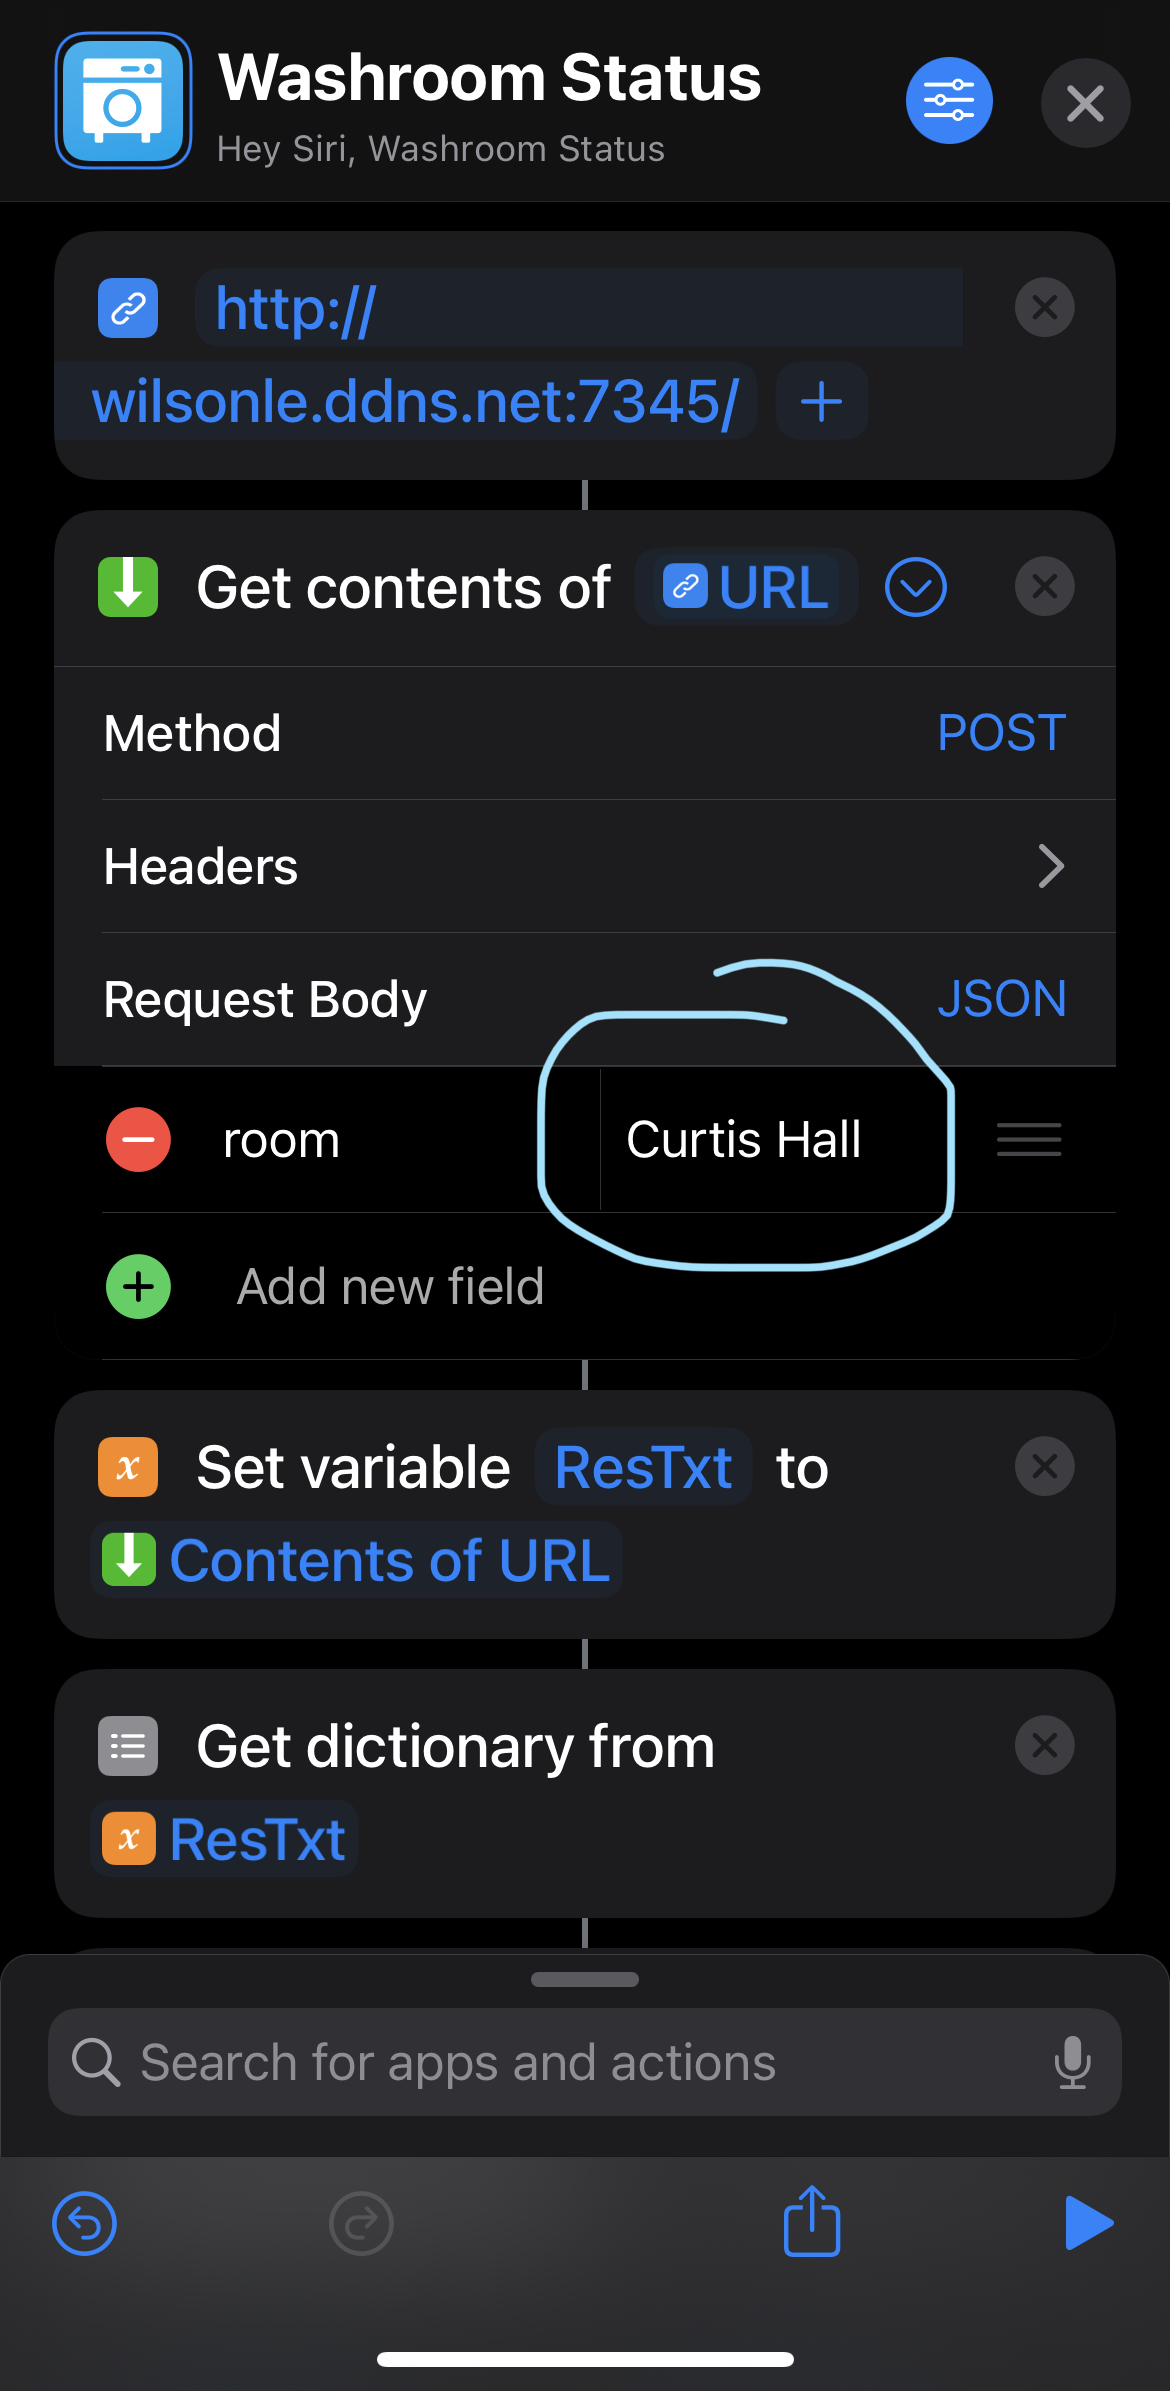
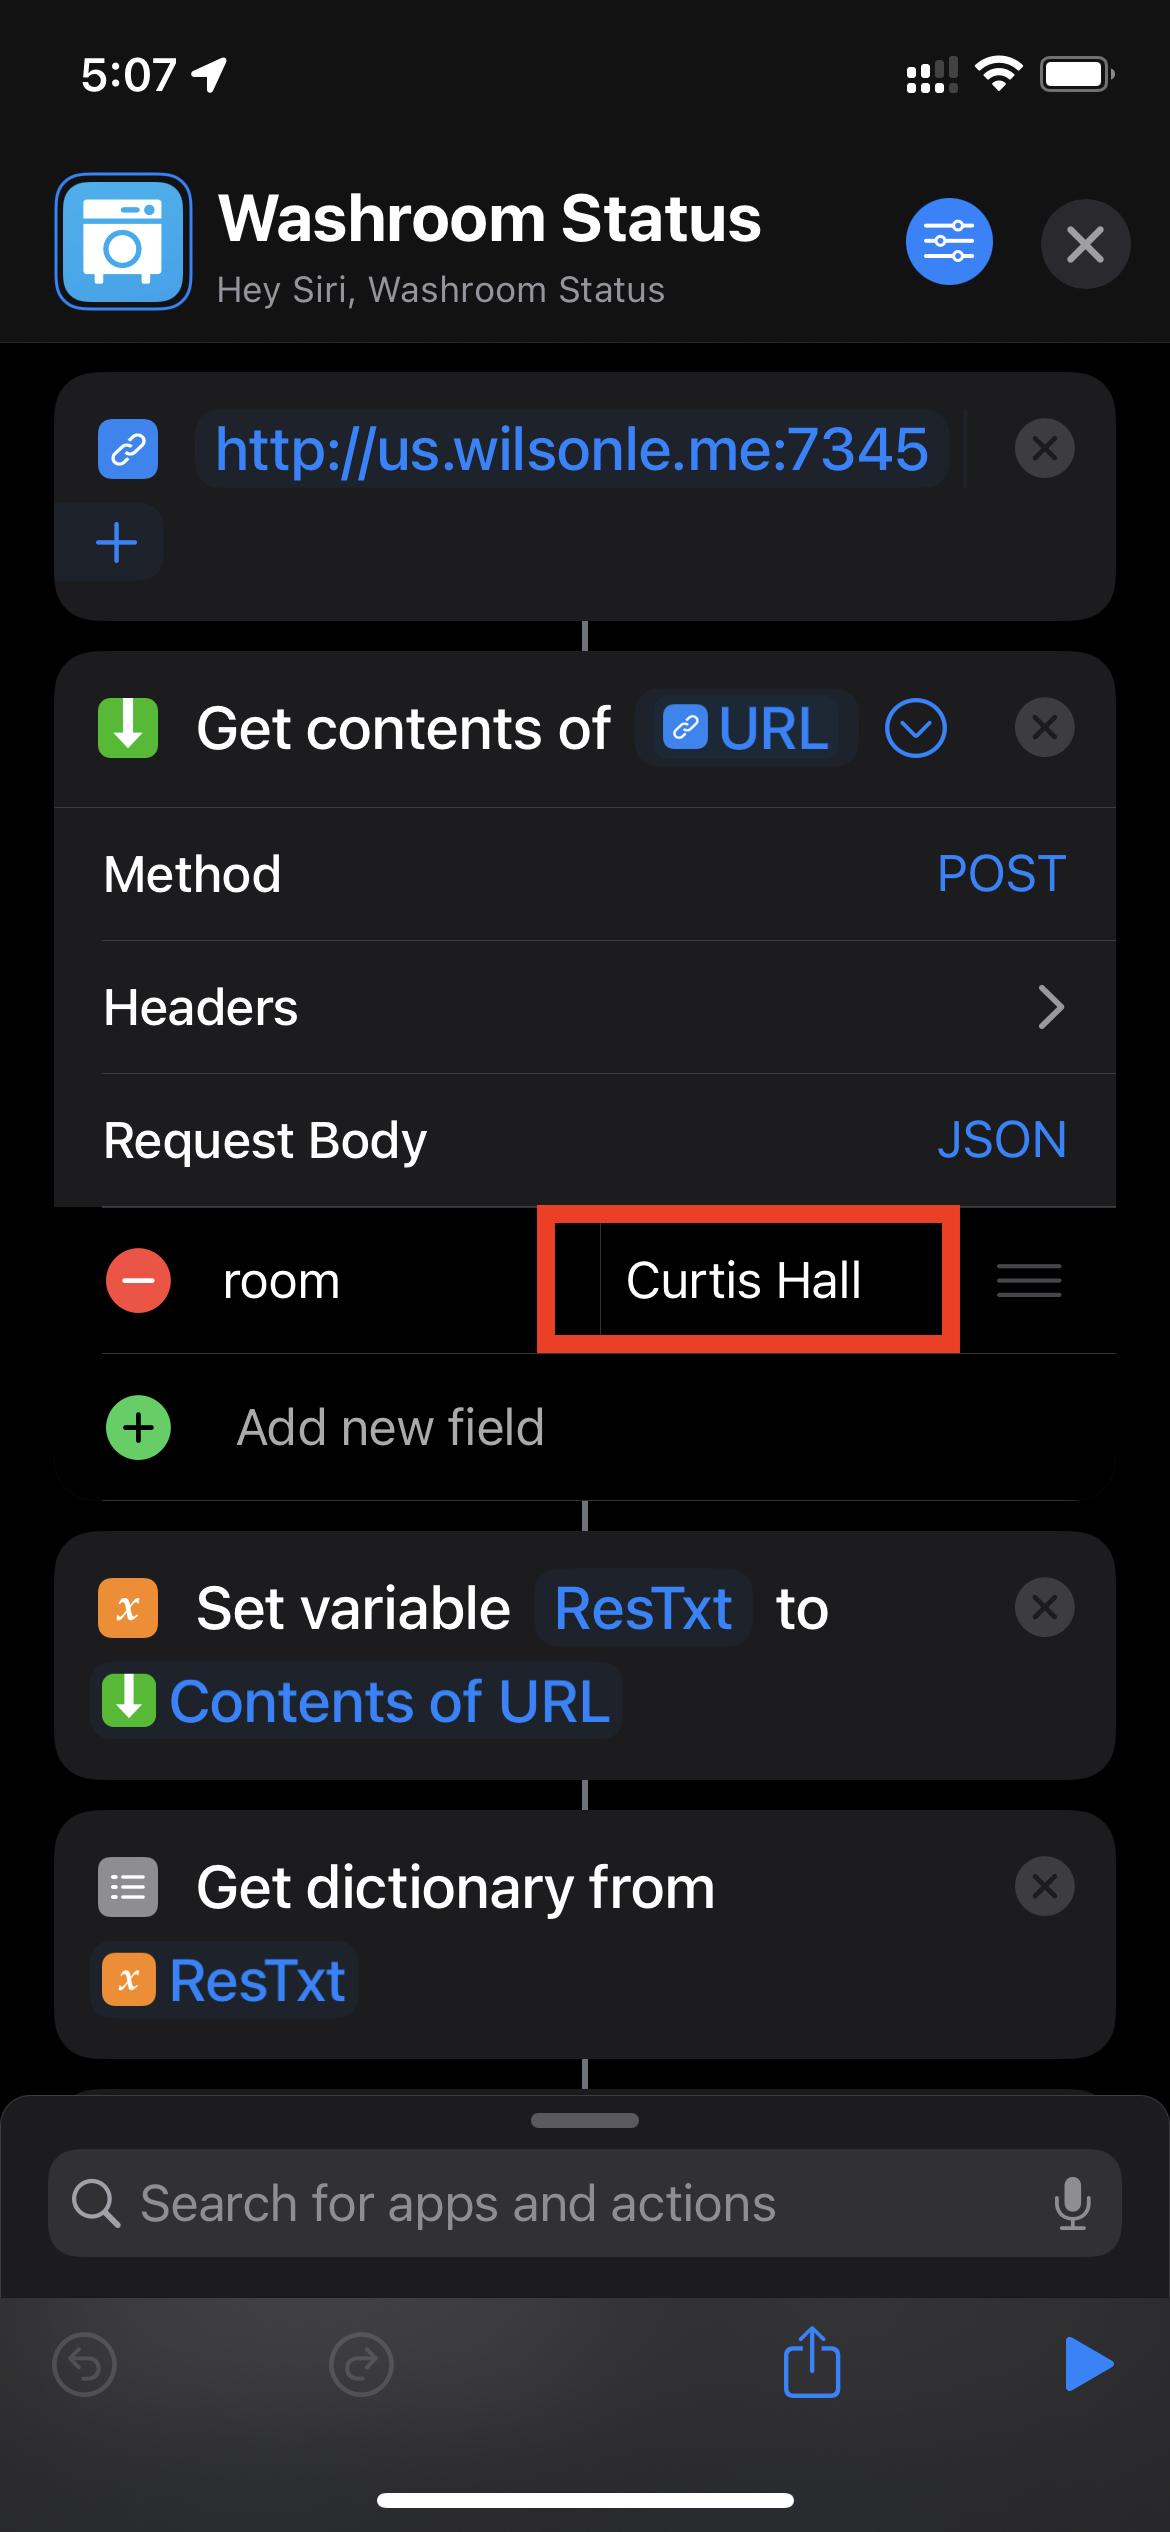
update endpoint

Changed region(s): [[0.0, 0.0, 1.0, 0.9594], [0.9231, 0.8975, 0.9538, 0.9594], [0.6769, 0.8975, 0.7077, 0.9594]]

diff --git a/README.md b/README.md
@@ -124,7 +124,7 @@ Possible hall names:
 ## Siri Shortcut
 
 - Link to the Siri shortcut that calls this API:
-- https://www.icloud.com/shortcuts/b3d90f8b77db48faaab62665767eb889
+- https://www.icloud.com/shortcuts/a33cb27280894c26a00a3c7814000c6c
 - This will allow you to ask Siri to speak the "messages" key of the response body whenever you say "washroom status"
 - You can customize the summon command (default by "washroom status") to whatever you like by editing the shortcut yourself.
 - You can edit the hall you want to know the status of (usually the hall you are living in). By default it's Curtis Hall because I live there 😁
